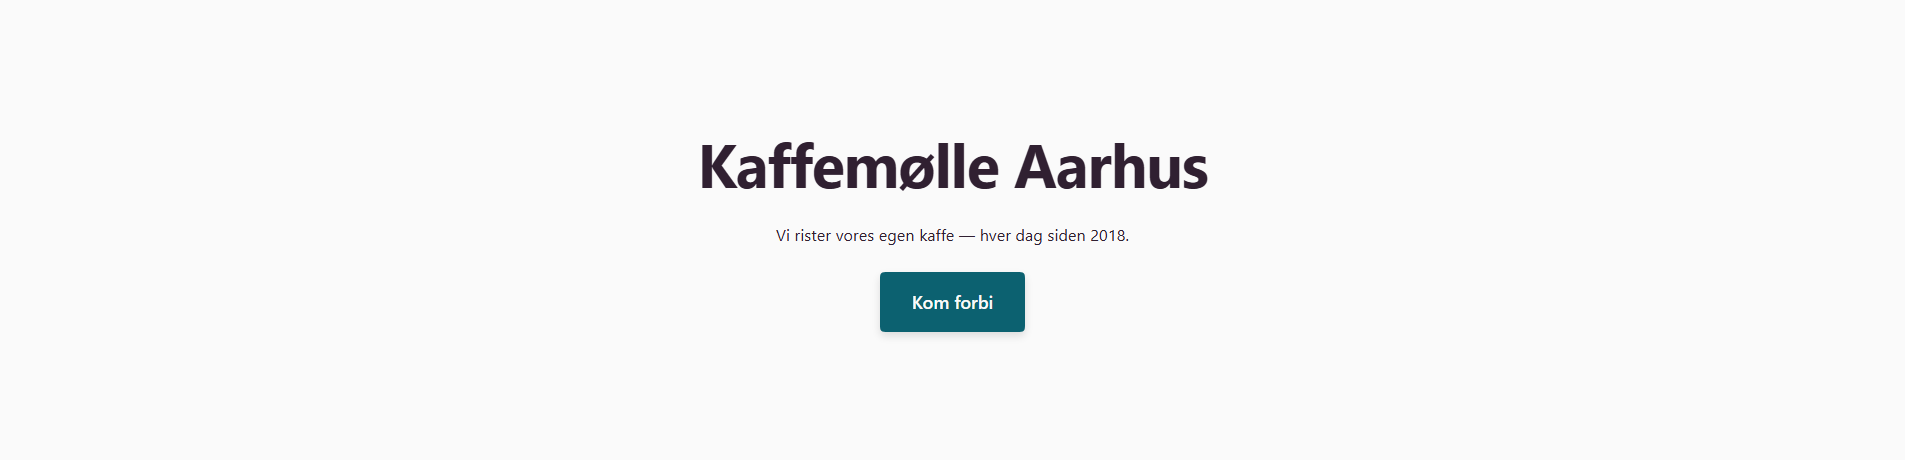
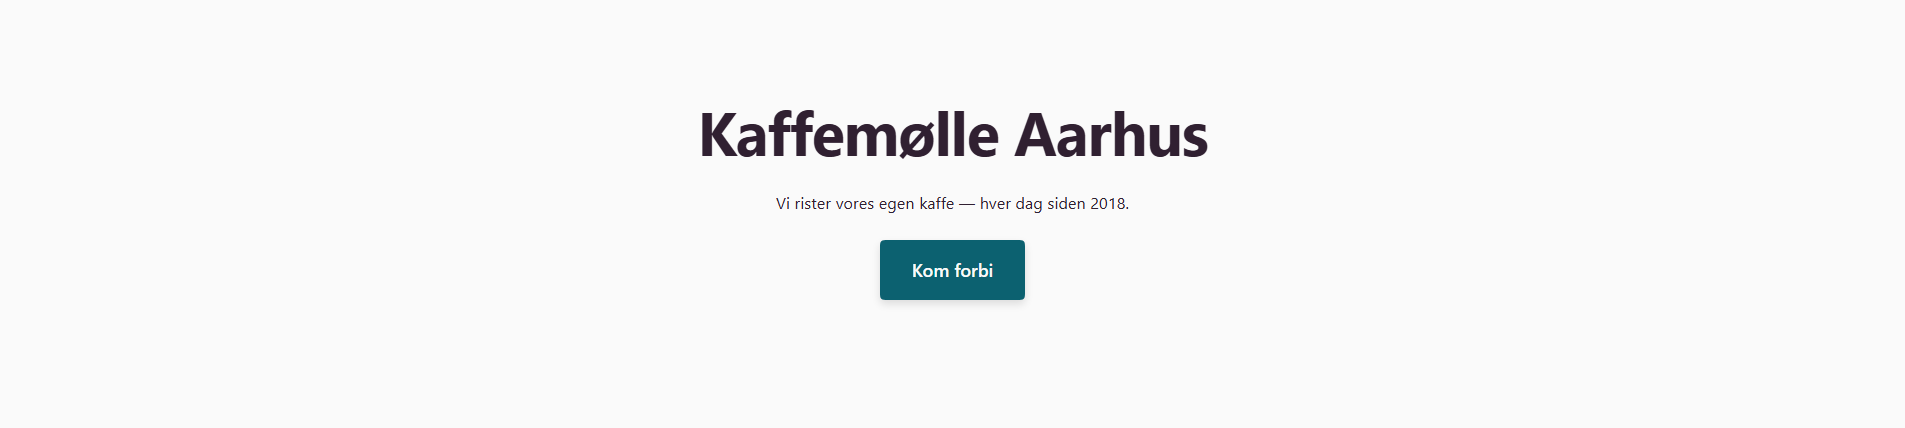
hero img fix

Changed region(s): [[0.3407, 0.243, 0.6504, 0.4252], [0.4026, 0.4556, 0.5885, 0.6682], [0.4646, 0.6986, 0.5575, 0.729]]

diff --git a/src/components/ui/EviImage.tsx b/src/components/ui/EviImage.tsx
@@ -1,6 +1,6 @@
 import { isFilled, type ImageField } from "@prismicio/client";
 import { PrismicNextImage } from "@prismicio/next";
-import { lqip_url } from "@/src/lib/utils/imgix";
+import { force_jpg, lqip_url } from "@/src/lib/utils/imgix";
 import { cn } from "@/src/lib/utils/cn";
 
 type AspectRatio = "landscape" | "square" | "video" | "portrait" | "auto";
@@ -34,8 +34,20 @@ export type EviImageProps = Omit<React.ComponentProps<"div">, "children"> & {
   mobileAspectRatio?: AspectRatio;
   /** Visuel ramme — se `ImageVariant`. @default "framed" */
   variant?: ImageVariant;
-  /** LCP-hero: loading="eager" + fetchPriority="high". @default false */
+  /**
+   * LCP-hero. Rendrer et rå `<img>` tvunget til JPEG (+ `decoding="sync"`) i
+   * stedet for next/image. imgix serverer uploads som AVIF/WebP der dekoder
+   * langsomt → det store hero flasher; JPEG dekoder hurtigt (derfor flasher
+   * Unsplash/fm=jpg aldrig). @default false
+   */
   priority?: boolean;
+  /**
+   * Display-størrelse til next/image-stien (ikke-hero), fx
+   * "(min-width: 768px) 45vw, 92vw". Uden den antager next/image 100vw og
+   * over-henter. Ignoreres på den rå art-direction-`<img>` (ét fast billede pr.
+   * crop, intet srcset — srcSet gav sporadisk flash).
+   */
+  sizes?: string;
   /** Klasse på selve `<img>` / `<PrismicNextImage>`. */
   imageClassName?: string;
 };
@@ -70,6 +82,7 @@ export function EviImage({
   mobileAspectRatio,
   variant = "framed",
   priority = false,
+  sizes,
   className,
   imageClassName,
   style,
@@ -99,13 +112,16 @@ export function EviImage({
 
   const imgClasses = cn("size-full object-contain", imageClassName);
 
-  // Hero art direction: separate desktop/mobile images via <picture>
-  if (isFilled.image(mobileField)) {
-    // width/height fra Prismic forhindrer Cumulative Layout Shift mens
-    // billedet loader. PrismicNextImage gør det automatisk; vores manuelle
-    // <img> skal hente det fra field.dimensions.
+  // Rå <img> til (a) hero (priority) ELLER (b) art direction (mobileField —
+  // next/image kan ikke <picture>). Hero tvinges til JPEG (force_jpg): imgix'
+  // AVIF/WebP-uploads dekoder for langsomt → det store LCP-billede popper ind
+  // efter paint = flash. JPEG dekoder hurtigt (derfor flasher Unsplash/fm=jpg
+  // aldrig — bekræftet i praksis). decoding="sync" = ekstra atomisk sikkerhed.
+  // width/height → CLS. next/image kan ikke tvinges til fm=jpg uden custom loader.
+  if (priority || isFilled.image(mobileField)) {
     const width = field.dimensions?.width ?? undefined;
     const height = field.dimensions?.height ?? undefined;
+    const src = priority ? force_jpg(field.url) : field.url;
     return (
       <div
         data-slot="evi-image"
@@ -115,22 +131,29 @@ export function EviImage({
         {...props}
       >
         <picture>
-          <source media="(max-width: 768px)" srcSet={mobileField.url ?? ""} />
+          {isFilled.image(mobileField) && (
+            <source
+              media="(max-width: 768px)"
+              srcSet={priority ? force_jpg(mobileField.url) : mobileField.url}
+            />
+          )}
           <img
-            src={field.url ?? ""}
+            src={src}
             alt={field.alt ?? ""}
             width={width}
             height={height}
             className={imgClasses}
             loading={priority ? "eager" : "lazy"}
             fetchPriority={priority ? "high" : "auto"}
+            decoding={priority ? "sync" : "async"}
           />
         </picture>
       </div>
     );
   }
 
-  // Standard: PrismicNextImage for Next.js optimering
+  // Ellers (ikke-hero, intet mobil-billede) → PrismicNextImage: srcset + sizes,
+  // lazy. WebP/AVIF er fint her (ikke LCP → langsommere dekode ses ikke).
   return (
     <div
       data-slot="evi-image"
@@ -143,8 +166,8 @@ export function EviImage({
         field={field}
         className={imgClasses}
         fallbackAlt=""
-        loading={priority ? "eager" : "lazy"}
-        fetchPriority={priority ? "high" : "auto"}
+        sizes={sizes}
+        loading="lazy"
       />
     </div>
   );

diff --git a/src/lib/utils/imgix.ts b/src/lib/utils/imgix.ts
@@ -20,3 +20,23 @@ export function lqip_url(url: string): string | undefined {
     return undefined;
   }
 }
+
+/**
+ * Tvinger et Prismic/imgix-billede til JPEG. imgix serverer uploads som
+ * `auto=format` → AVIF/WebP, som DEKODER langsomt; på et stort LCP-hero popper
+ * billedet ind efter paint = flash. JPEG dekoder hurtigt → intet flash (derfor
+ * flasher Unsplash-billeder, der allerede er `fm=jpg`, aldrig). Kun værd på
+ * hero'en — WebP/AVIF beholdes ellers (mindre download, ikke-LCP = ingen synlig
+ * flash). Drop `format` fra `auto` FØR `fm` sættes: `auto=format` overstyrer ellers
+ * `fm` (imgix-regel). `auto=compress` bevares. Returnerer input uændret ved fejl.
+ */
+export function force_jpg(url: string): string {
+  try {
+    const u = new URL(url);
+    u.searchParams.set("auto", "compress");
+    u.searchParams.set("fm", "jpg");
+    return u.toString();
+  } catch {
+    return url;
+  }
+}

diff --git a/src/components/ui/EviBackdropImage.tsx b/src/components/ui/EviBackdropImage.tsx
@@ -66,6 +66,7 @@ export function EviBackdropImage({
         variant="plain"
         imageClassName="object-cover"
         priority={priority}
+        sizes="(min-width: 768px) 45vw, 92vw"
         className="rounded-evi shadow-evi"
       />
     </div>
